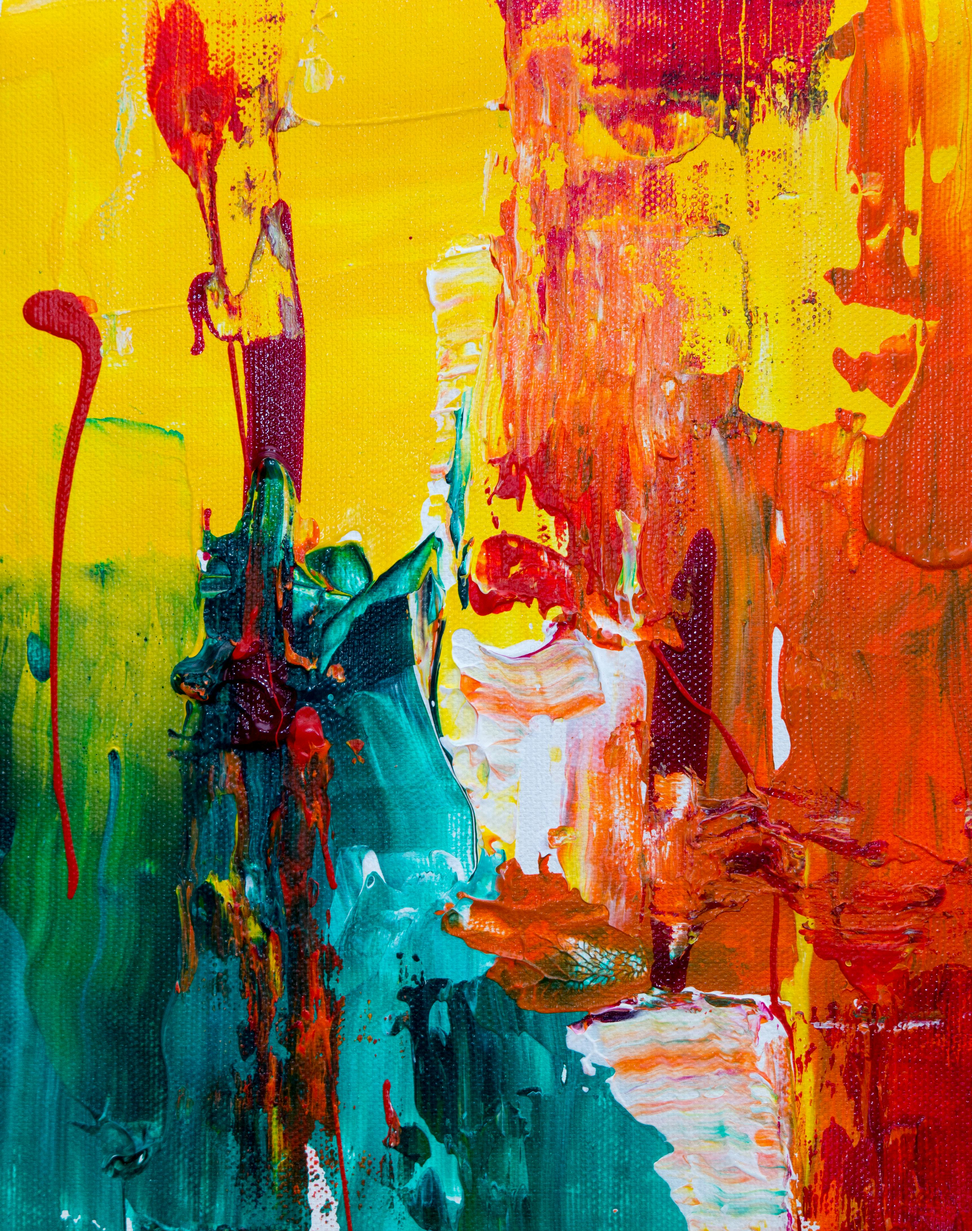
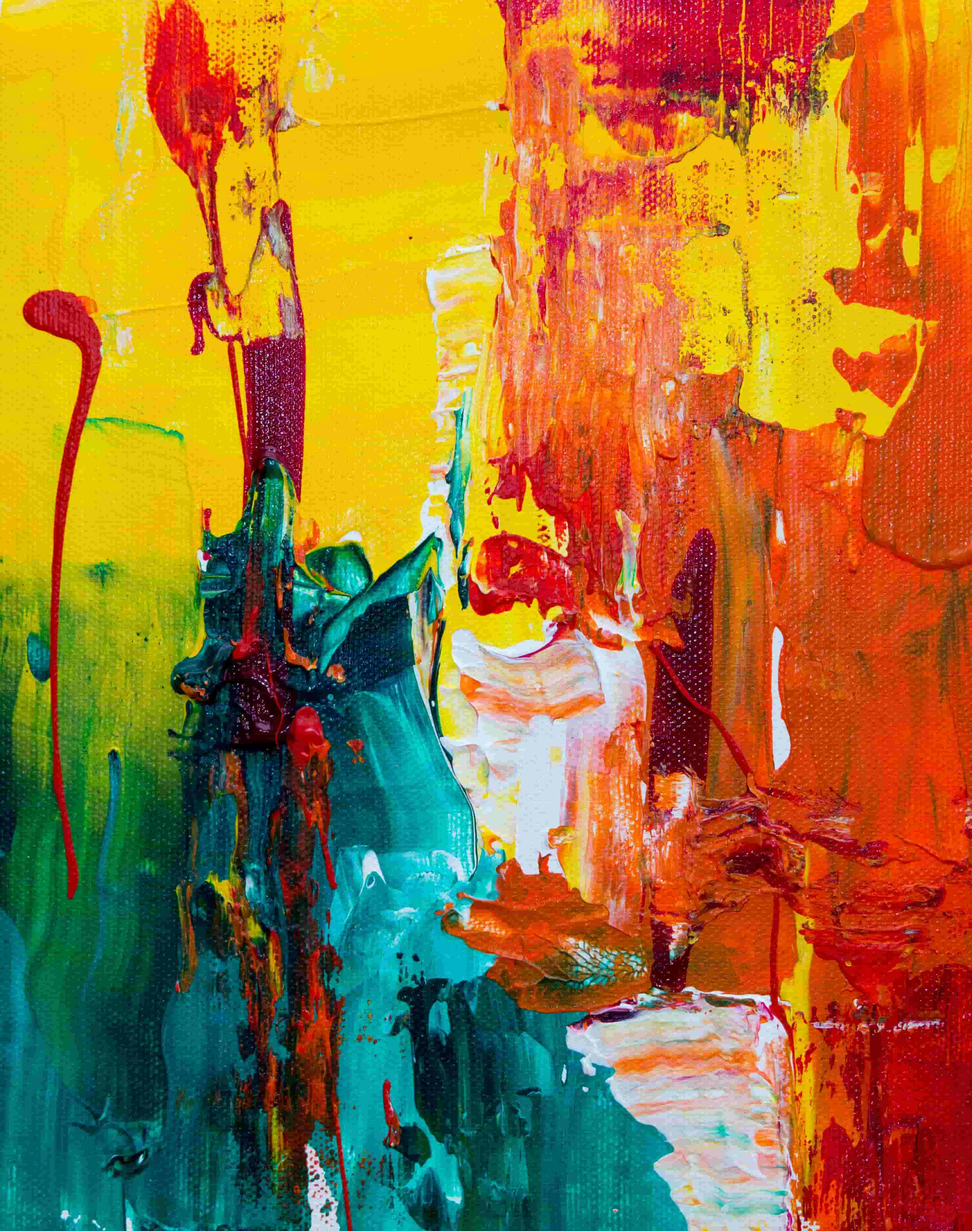
Reduced the file size of the pictures in the home page

diff --git a/app/page.js b/app/page.js
@@ -21,7 +21,7 @@ export default function Home() {
     },
 
     {
-      image: "/minimal_1.jpg",
+      image: "/minimal.jpg",
       name: "MINIMALISM",
       art_total: 3
     },
